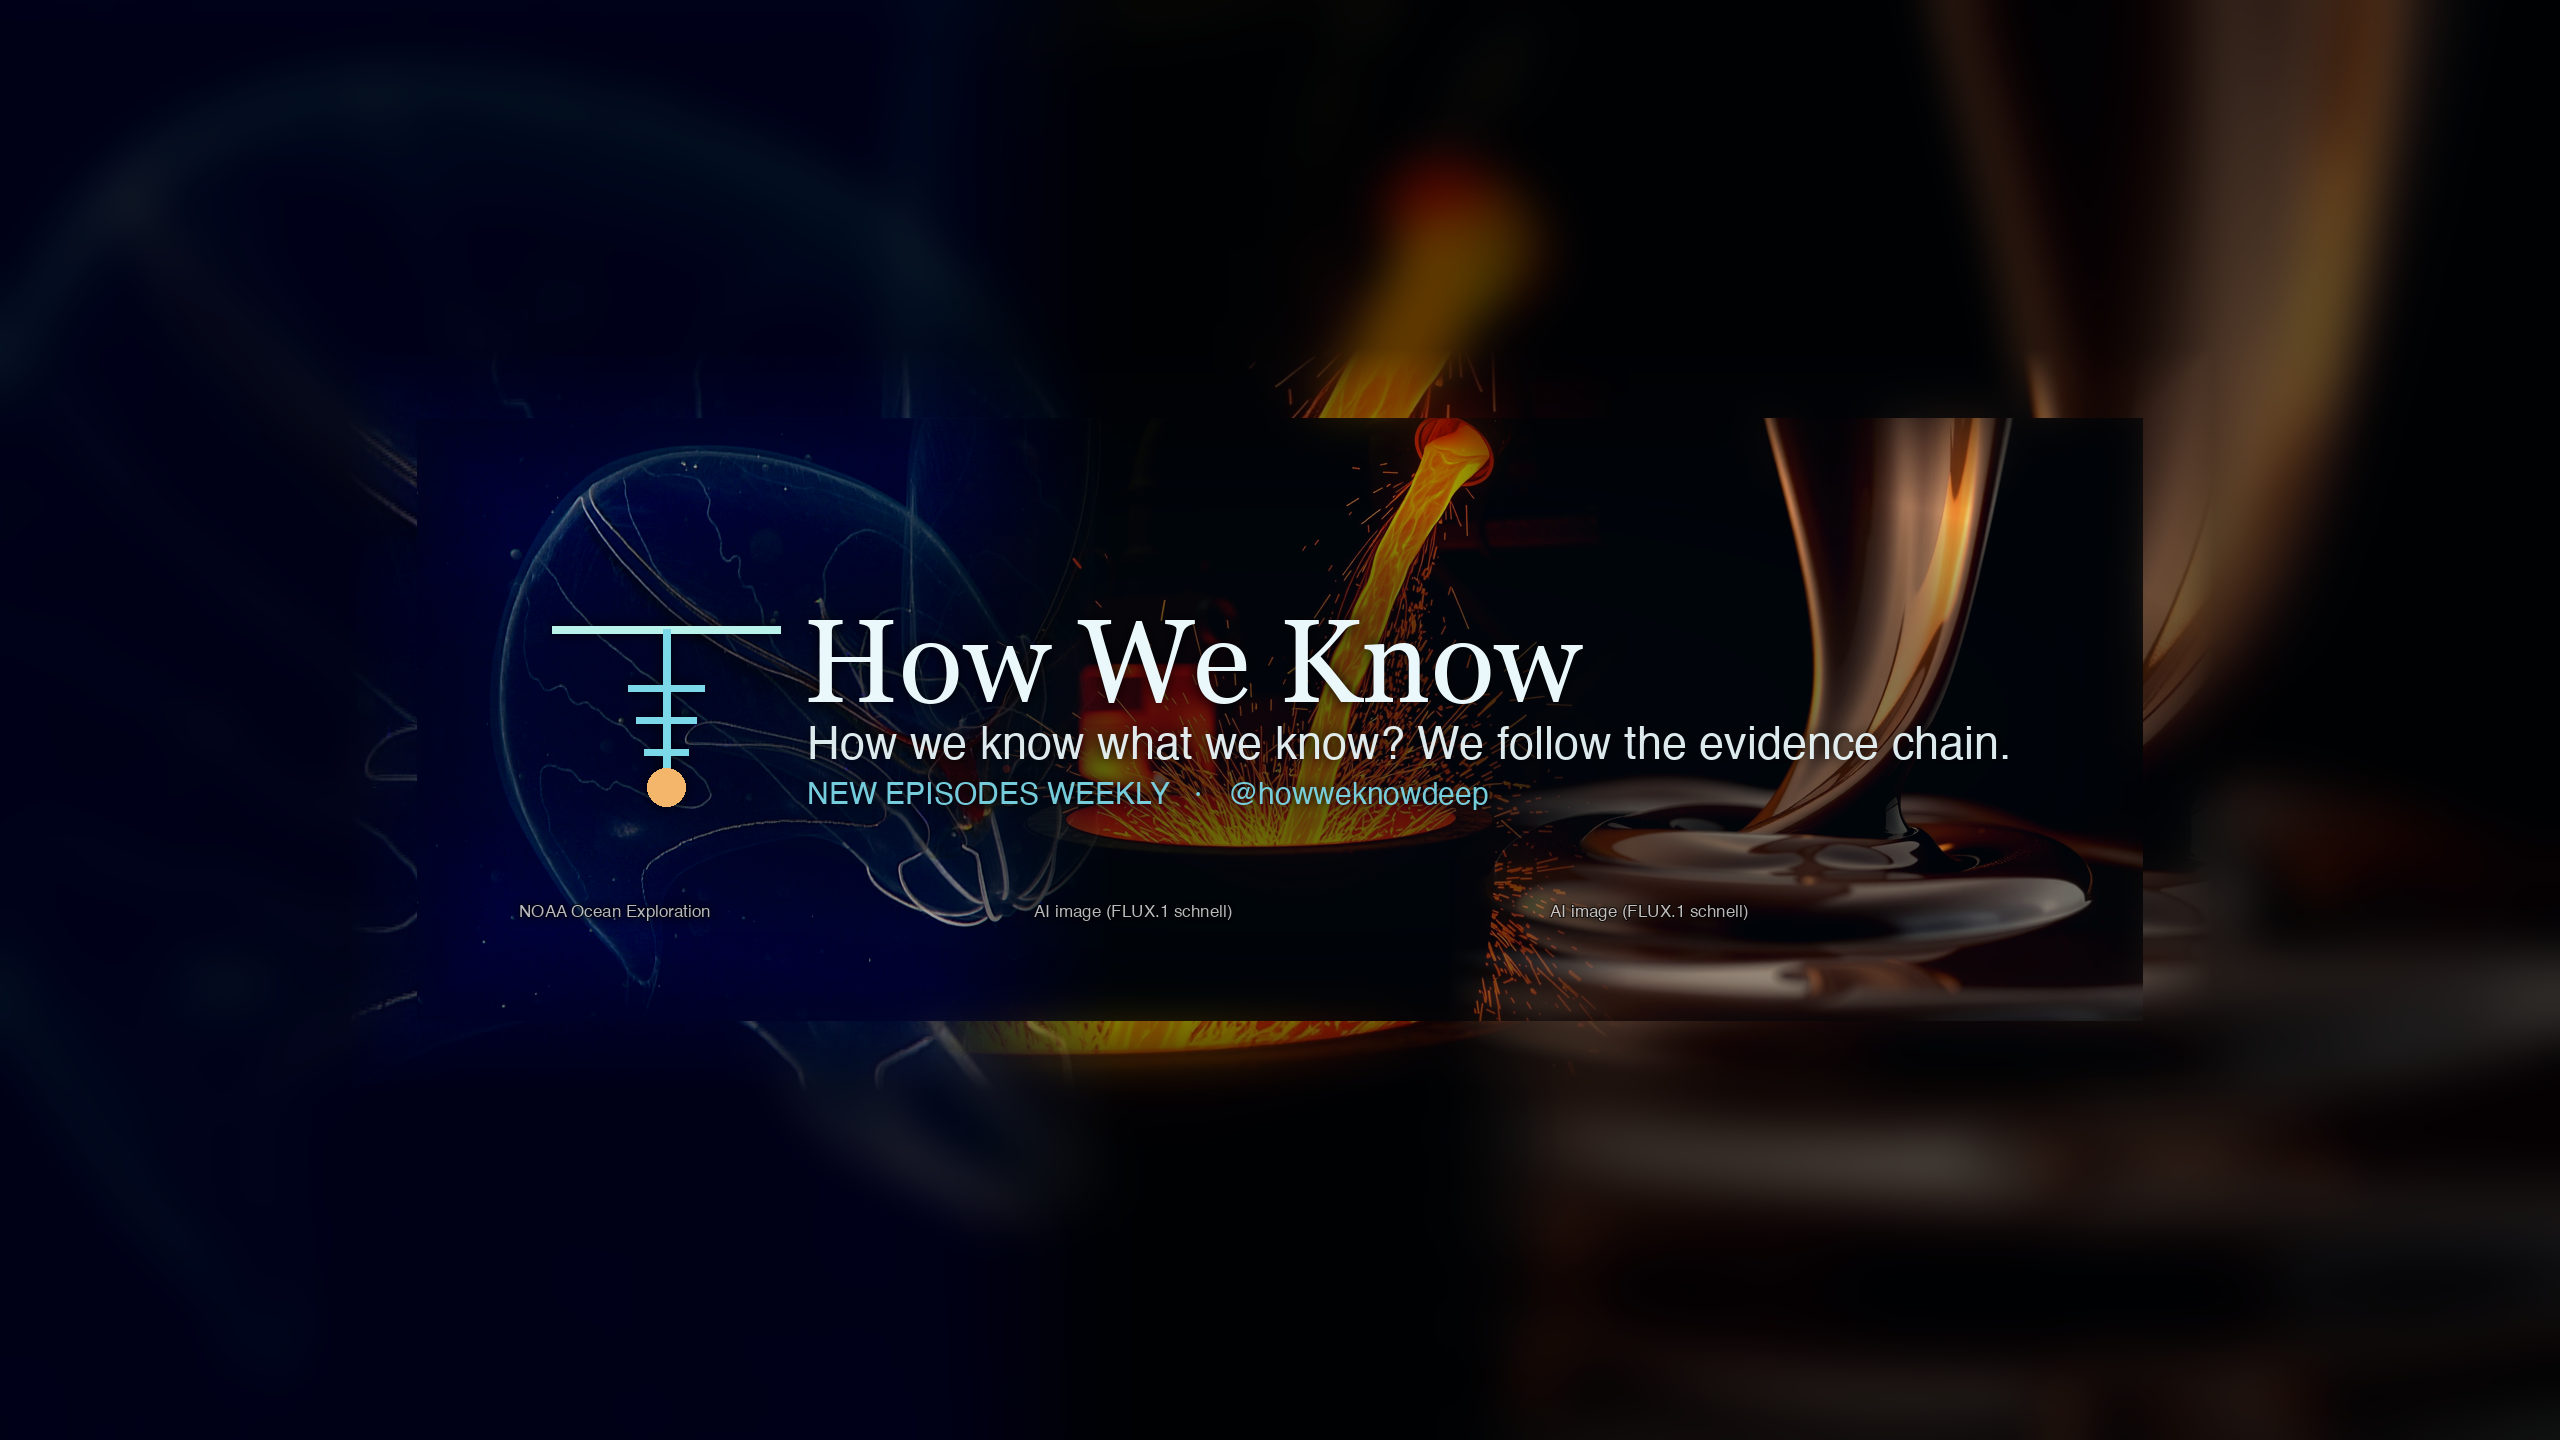
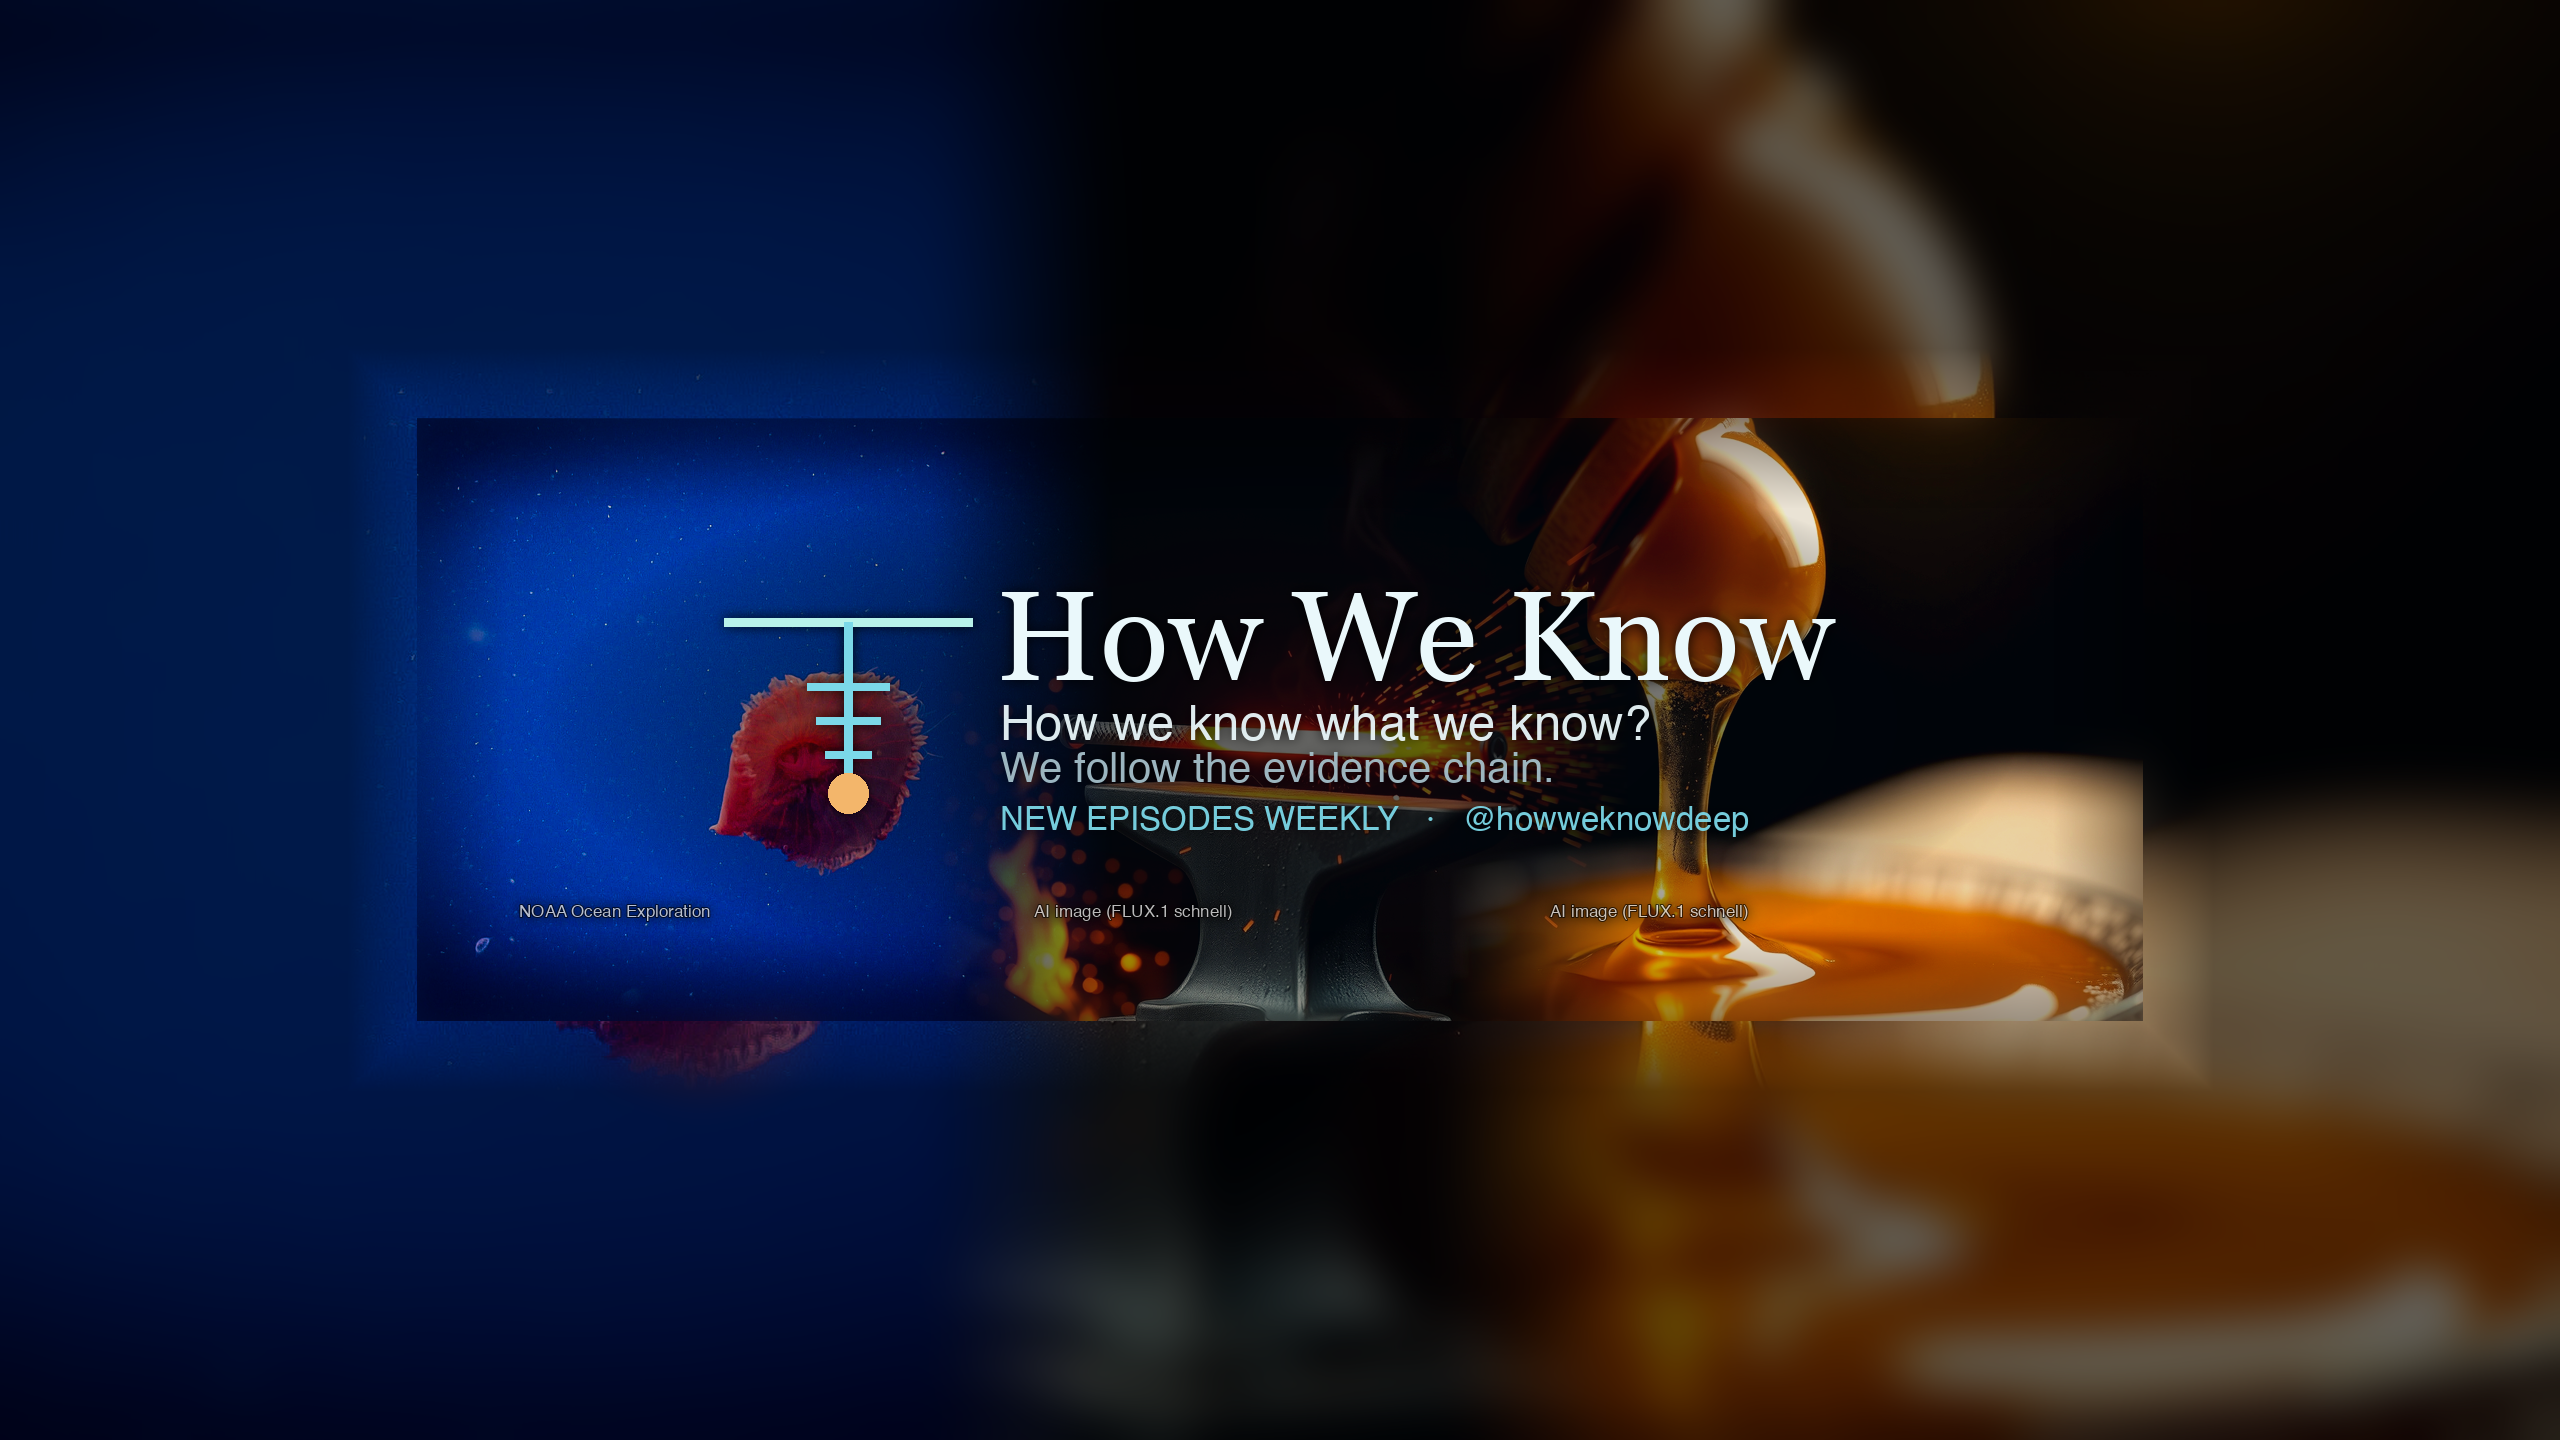
channel branding applied: candidate B live, Food Science playlist, three shelves, read-back recorded
Live read-back 2026-10-13: banner URL serves candidate B (pixel diff 0.0 vs
B, 27.9 vs A), description opens 'How we know what we know' and names all
three domains, keywords cover all three; sections created for deep sea,
materials, food. 308 units booked to lane 'branding'. RUNBOOK line added.

Claude-Session: https://claude.ai/code/session_01R22rj3PRcpGqmWiUXBiZtb

diff --git a/RUNBOOK.md b/RUNBOOK.md
@@ -393,6 +393,11 @@ extended or made private — its title and thumbnail are the only things that ch
 - **Under ten minutes** (`loop/lengthen.py`, queued scripts only): a new hook is
   spliced onto the untouched body of the render, plus a warm, sourced tail
   ending on the next episode — 10:30 to 11:30 in all.
+- **Channel banner, About text, keywords and home shelves** (`loop/channel_branding.py`,
+  13 Oct 2026): your original logo and words, three domain pictures underneath;
+  candidate B is live, A and C sit in `channel/branding/candidates/`. To switch:
+  `.venv/bin/python loop/channel_branding.py --candidate A`. A new domain needs only a
+  display name in `channel/branding/branding.json`; validator V51 fails until it is applied.
 
 ---
 
